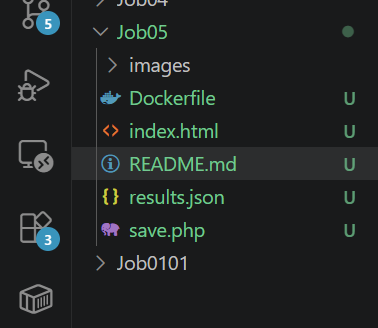
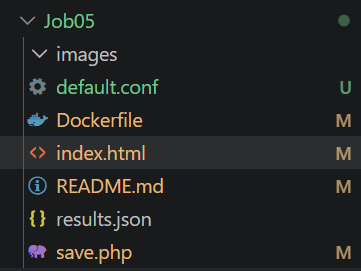
regler un probleme sur la save + changer un peu le dockerfile pour pouvoir enregister les results + ajouter un fichier default.conf + la 2eme partie du job ( lancer le volume , et le contenaire , jouer le jeu et regarder que les données persistent voila

diff --git a/Job05/index.html b/Job05/index.html
@@ -1,30 +1,27 @@
-<!doctype html>
-<html lang="fr">
+<!DOCTYPE html>
+<html lang="en">
   <head>
     <meta charset="UTF-8" />
     <meta name="viewport" content="width=device-width, initial-scale=1.0" />
     <title>Tic Tac Toe</title>
+
     <style>
       body {
         font-family: Arial, sans-serif;
         text-align: center;
         margin-top: 50px;
       }
-
       h1 {
         color: #333;
       }
-
       .status {
         font-size: 18px;
         margin-bottom: 20px;
       }
-
       table {
         margin: 0 auto;
         border-collapse: collapse;
       }
-
       td {
         width: 80px;
         height: 80px;
@@ -32,21 +29,18 @@
         vertical-align: middle;
         font-size: 36px;
         font-weight: bold;
-        border: 2px solid #000;
+        border: 2pxsolid#000;
         cursor: pointer;
       }
-
       td:hover {
         background-color: #f0f0f0;
       }
-
       td.taken {
         cursor: not-allowed;
       }
-
       button {
         margin-top: 20px;
-        padding: 10px 20px;
+        padding: 10px20px;
         font-size: 16px;
         background-color: #007bff;
         color: white;
@@ -54,20 +48,16 @@
         border-radius: 5px;
         cursor: pointer;
       }
-
       button:hover {
         background-color: #0056b3;
       }
     </style>
   </head>
-
   <body>
     <h1>Tic Tac Toe</h1>
-
     <div class="status">
       C'est au tour de <span id="currentPlayer">X</span>.
     </div>
-
     <table>
       <tr>
         <td onclick="makeMove(this)"></td>
@@ -85,76 +75,75 @@
         <td onclick="makeMove(this)"></td>
       </tr>
     </table>
-
     <button onclick="resetGame()">Réinitialiser</button>
-
-    <script>
-      let currentPlayer = "X";
-      let gameActive = true;
-
-      const statusDisplay = document.querySelector(".status");
-      const cells = document.querySelectorAll("td");
-
-      async function saveResults(winner) {
-        await fetch("save.php", {
-          method: "POST",
-          headers: { "Content-Type": "application/json" },
-          body: JSON.stringify({ winner }),
-        });
-      }
-
-      function makeMove(cell) {
-        if (!gameActive || cell.textContent !== "") return;
-
-        cell.textContent = currentPlayer;
-        cell.classList.add("taken");
-
-        if (checkWin()) {
-          statusDisplay.textContent = `Le joueur ${currentPlayer} a gagné !`;
-          gameActive = false;
-          saveResults(currentPlayer);
-          return;
-        }
-
-        if ([...cells].every((cell) => cell.textContent !== "")) {
-          statusDisplay.textContent = "C'est un match nul !";
-          gameActive = false;
-          saveResults("Draw");
-          return;
-        }
-
-        currentPlayer = currentPlayer === "X" ? "O" : "X";
-        statusDisplay.innerHTML = `C'est au tour de <span id="currentPlayer">${currentPlayer}</span>.`;
-      }
-
-      function checkWin() {
-        const winningCombinations = [
-          [0, 1, 2],
-          [3, 4, 5],
-          [6, 7, 8],
-          [0, 3, 6],
-          [1, 4, 7],
-          [2, 5, 8],
-          [0, 4, 8],
-          [2, 4, 6],
-        ];
-
-        return winningCombinations.some((combo) =>
-          combo.every((index) => cells[index].textContent === currentPlayer),
-        );
-      }
-
-      function resetGame() {
-        currentPlayer = "X";
-        gameActive = true;
-
-        statusDisplay.innerHTML = `C'est au tour de <span id="currentPlayer">${currentPlayer}</span>.`;
-
-        cells.forEach((cell) => {
-          cell.textContent = "";
-          cell.classList.remove("taken");
-        });
-      }
-    </script>
   </body>
+</html>
+<script>
+let currentPlayer = 'X';
+let gameActive = true;
+const statusDisplay = document.querySelector('.status');
+const cells = document.querySelectorAll('td');
+
+async function saveResults(winner) {
+const response = await fetch('save.php', {
+method: 'POST',
+headers: { 'Content-Type': 'application/json' },
+body: JSON.stringify({ winner }),
+});
+return response.ok;
+}
+
+function makeMove(cell) {
+if (!gameActive || cell.textContent !== '') return;
+
+// Ajouter le symbole du joueur actuel
+cell.textContent = currentPlayer;
+cell.classList.add('taken');
+
+// Vérifier si le joueur actuel a gagné
+if (checkWin()) {
+statusDisplay.textContent = `Le joueur ${currentPlayer} a gagné !`;
+gameActive = false;
+saveResults(currentPlayer);
+return;
+}
+
+// Vérifier si c'est un match nul
+if (Array.from(cells).every(cell => cell.textContent !== '')) {
+statusDisplay.textContent = "C'est un match nul !";
+saveResults('Draw');
+gameActive = false;
+return;
+}
+
+// Passer au joueur suivant
+currentPlayer = currentPlayer === 'X' ? 'O' : 'X';
+statusDisplay.innerHTML = `C'est au tour de <span id="currentPlayer">${currentPlayer}</span>.`;
+}
+
+function checkWin() {
+const winningCombinations = [
+[0, 1, 2], [3, 4, 5], [6, 7, 8], // Lignes
+[0, 3, 6], [1, 4, 7], [2, 5, 8], // Colonnes
+[0, 4, 8], [2, 4, 6] // Diagonales
+];
+
+return winningCombinations.some(combination => {
+return combination.every(index => {
+return cells[index].textContent === currentPlayer;
+});
+});
+}
+
+function resetGame() {
+currentPlayer = 'X';
+gameActive = true;
+statusDisplay.innerHTML = `C'est au tour de <span id="currentPlayer">${currentPlayer}</span>.`;
+cells.forEach(cell => {
+cell.textContent = '';
+cell.classList.remove('taken');
+});
+}
+</script>
+</body>
 </html>

diff --git a/Job05/save.php b/Job05/save.php
@@ -1,15 +1,18 @@
 <?php
 $file = __DIR__ . '/results.json';
 
+// Lire les données envoyées
 $data = json_decode(file_get_contents('php://input'), true);
 
 if ($data) {
+    // Charger les résultats existants
     $results = file_exists($file) ? json_decode(file_get_contents($file), true) : [];
     $results[] = $data;
 
+    // Sauvegarder les résultats
     file_put_contents($file, json_encode($results, JSON_PRETTY_PRINT));
     echo json_encode(["status" => "success"]);
 } else {
     http_response_code(400);
-    echo json_encode(["status" => "error"]);
+    echo json_encode(["status" => "error", "message" => "Données invalides"]);
 }

diff --git a/Job05/README.md b/Job05/README.md
@@ -94,3 +94,23 @@ Accès au jeu Tic Tac Toe via :
 ```text
 http://localhost:8080
 ```
+
+![jeu](images/jeu.png)
+
+### Étape 6 — Vérification du volume Docker
+
+Affichage du contenu du volume Docker pour vérifier la persistance des données même après arrêt du conteneur.
+![terminal](images/data-terminal)
+
+### Étape 7 — Vérification dans Docker Desktop
+
+Consultation du conteneur et du volume directement depuis Docker Desktop.
+
+consultation du volume game-results et lecture du fichier results.json
+![results.json](images/results-dockerDescktop)
+
+### Étape 9 — Arrêt du conteneur
+
+Arrêt du conteneur Docker après les tests.
+
+![arret](images/arret-cont)
